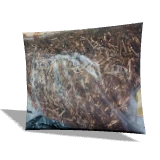
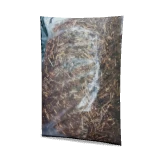
straighten sack photos, stand all sacks upright, add interactive 3D sack viewer
Sack model moves to src/lib/sack3d.js (shared by icon tool and viewer).
Each photo is mapped onto the sack face via its 4 corners, so tilted or
sideways sacks render straight and upright; icons are framed to never clip.
Clicking a material icon opens a rotatable/zoomable 3D view of the sack.
Icon tool no longer crashes when a save fails.

diff --git a/matprep-app/src/lib/sack3d.js b/matprep-app/src/lib/sack3d.js
@@ -1,0 +1,81 @@
+import * as THREE from 'three';
+import lmc from '../assets/sacks/lmc.jpg';
+import ultraseed from '../assets/sacks/ultraseed.jpg';
+import mglamet from '../assets/sacks/mglamet.jpg';
+import cu from '../assets/sacks/cu.jpg';
+import mgdenodule from '../assets/sacks/mgdenodule.jpg';
+
+// Model karung 3D dari foto. `corners` = 4 sudut muka karung di foto (px, urutan kiri-atas, kanan-atas,
+// kanan-bawah, kiri-bawah). Foto "diluruskan" ke sudut-sudut ini, jadi karung miring/terbalik ikut tegak.
+// w/h/d = lebar/tinggi/tebal karung (m). Foto baru: taruh di assets/sacks, tambah satu baris di sini.
+export const SACKS = {
+  lmc:        { tex: lmc,        size: [620, 800], corners: [[90, 55], [460, 70], [565, 690], [55, 735]],  w: .48, h: .70, d: .16, back: 0xc9cbc8, lift: .45 }, // foto berbayang → diterangkan
+  ultraseed:  { tex: ultraseed,  size: [493, 800], corners: [[55, 50], [400, 40], [445, 735], [25, 735]],  w: .42, h: .70, d: .18, back: 0xb8956a },
+  mglamet:    { tex: mglamet,    size: [622, 800], corners: [[50, 50], [445, 35], [570, 695], [50, 755]],  w: .48, h: .68, d: .15, back: 0xd2d3cf },
+  cu:         { tex: cu,         size: [800, 653], corners: [[105, 545], [60, 80], [700, 45], [720, 590]], w: .40, h: .58, d: .12, back: 0xa8643f },
+  mgdenodule: { tex: mgdenodule, size: [610, 800], corners: [[100, 55], [555, 95], [585, 750], [65, 760]], w: .48, h: .66, d: .15, back: 0xdcdcd6 },
+  default:    { tex: null, w: .46, h: .68, d: .15, color: 0xd6d7d2, back: 0xc9cbc6 },
+};
+
+export async function loadSackTexture(id) {
+  const s = SACKS[id];
+  if (!s?.tex) return null;
+  const t = await new THREE.TextureLoader().loadAsync(s.tex);
+  t.colorSpace = THREE.SRGBColorSpace; t.anisotropy = 8;
+  return t;
+}
+
+// Karung berdiri tegak, dasar di y=0, muka foto menghadap +z.
+export function buildSack(id, tex) {
+  const s = SACKS[id] ?? SACKS.default;
+  const { w, h, d } = s;
+  const lerp = (a, b, k) => [a[0] + (b[0] - a[0]) * k, a[1] + (b[1] - a[1]) * k];
+  // uv bilinear dari 4 sudut foto → muka karung lurus
+  const uvAt = (sx, ty) => {
+    const [tl, tr, br, bl] = s.corners;
+    const p = lerp(lerp(bl, br, sx), lerp(tl, tr, sx), ty);
+    return [p[0] / s.size[0], 1 - p[1] / s.size[1]];
+  };
+  function half(dir) {
+    const g = new THREE.PlaneGeometry(w, h, 40, 56);
+    const p = g.attributes.position, uv = g.attributes.uv;
+    for (let k = 0; k < p.count; k++) {
+      const x0 = p.getX(k), y0 = p.getY(k);
+      const u = (x0 / w) * 2, v = (y0 / h) * 2; // -1..1
+      if (s.corners) uv.setXY(k, ...uvAt(x0 / w + .5, y0 / h + .5));
+      // menggembung, bawah lebih padat (karung berdiri), sudut dijepit
+      const bulge = Math.pow(Math.max(0, 1 - u * u), .32) * Math.pow(Math.max(0, 1 - v * v), .28) * (1.06 - .12 * v);
+      const wrinkle = .008 * Math.sin(u * 7 + v * 3) * Math.sin(v * 9 + 1.3) + (v > .78 ? .02 * Math.sin(u * 13) * (v - .78) * 4 : 0);
+      p.setXYZ(k, x0 * (1 - .05 * (1 - v * v)), y0 * (1 - .03 * (1 - u * u)) + h / 2, dir * bulge * (d / 2 + wrinkle * d * 3));
+    }
+    g.computeVertexNormals();
+    return g;
+  }
+  // lift: terangkan foto yang gelap/berbayang (emissive dari foto itu sendiri)
+  const front = new THREE.MeshStandardMaterial({
+    map: tex, color: tex ? 0xffffff : s.color, roughness: .85, side: THREE.DoubleSide,
+    ...(tex && s.lift ? { emissive: 0xffffff, emissiveMap: tex, emissiveIntensity: s.lift } : {}),
+  });
+  const back = new THREE.MeshStandardMaterial({ color: s.back, roughness: .9, side: THREE.DoubleSide });
+  const grp = new THREE.Group();
+  for (const m of [new THREE.Mesh(half(1), front), new THREE.Mesh(half(-1), back)]) { m.castShadow = true; grp.add(m); }
+  return grp;
+}
+
+// Posisikan kamera perspektif agar objek muat utuh (tidak terpotong) dengan margin, dari arah `dir`.
+export function fitCamera(camera, object, dir = new THREE.Vector3(0, .15, 1), margin = .86) {
+  const box = new THREE.Box3().setFromObject(object);
+  const center = box.getCenter(new THREE.Vector3());
+  const pts = [];
+  for (const x of [box.min.x, box.max.x]) for (const y of [box.min.y, box.max.y]) for (const z of [box.min.z, box.max.z]) pts.push(new THREE.Vector3(x, y, z));
+  let dist = box.getSize(new THREE.Vector3()).length() * 2;
+  for (let i = 0; i < 6; i++) {
+    camera.position.copy(center).addScaledVector(dir.clone().normalize(), dist);
+    camera.lookAt(center); camera.updateMatrixWorld(); camera.updateProjectionMatrix();
+    const ext = Math.max(...pts.map(p => { const q = p.clone().project(camera); return Math.max(Math.abs(q.x), Math.abs(q.y)); }));
+    dist *= ext / margin;
+  }
+  camera.position.copy(center).addScaledVector(dir.clone().normalize(), dist);
+  camera.lookAt(center);
+  return center;
+}

diff --git a/matprep-app/src/components/SackViewer3D.jsx b/matprep-app/src/components/SackViewer3D.jsx
@@ -1,0 +1,87 @@
+import { useEffect, useRef } from 'react';
+import { X } from 'lucide-react';
+import * as THREE from 'three';
+import { OrbitControls } from 'three/addons/controls/OrbitControls.js';
+import { buildSack, fitCamera, loadSackTexture } from '../lib/sack3d';
+
+// Penampil karung 3D: putar (drag), zoom (scroll), auto-putar sampai disentuh.
+export default function SackViewer3D({ sackId, material, onClose }) {
+  const viewRef = useRef(null);
+
+  useEffect(() => {
+    const onKey = e => e.key === 'Escape' && onClose();
+    window.addEventListener('keydown', onKey);
+    return () => window.removeEventListener('keydown', onKey);
+  }, [onClose]);
+
+  useEffect(() => {
+    const view = viewRef.current;
+    let alive = true;
+    const renderer = new THREE.WebGLRenderer({ antialias: true, alpha: true });
+    renderer.setPixelRatio(Math.min(devicePixelRatio, 2));
+    renderer.outputColorSpace = THREE.SRGBColorSpace; renderer.toneMapping = THREE.ACESFilmicToneMapping; renderer.toneMappingExposure = 1.25;
+    renderer.shadowMap.enabled = true;
+    view.appendChild(renderer.domElement);
+
+    const scene = new THREE.Scene();
+    scene.add(new THREE.HemisphereLight(0xffffff, 0x404040, 1.6));
+    const key = new THREE.DirectionalLight(0xffffff, 1.6); key.position.set(1.2, 2.5, 2.5); key.castShadow = true;
+    key.shadow.mapSize.set(1024, 1024); key.shadow.radius = 6; Object.assign(key.shadow.camera, { left: -1, right: 1, top: 1, bottom: -1 }); scene.add(key);
+    const rim = new THREE.DirectionalLight(0xffe0b0, .7); rim.position.set(-2, 1, -1.5); scene.add(rim);
+    const ground = new THREE.Mesh(new THREE.CircleGeometry(1.2, 48), new THREE.ShadowMaterial({ opacity: .35 }));
+    ground.rotation.x = -Math.PI / 2; ground.receiveShadow = true; scene.add(ground);
+
+    const camera = new THREE.PerspectiveCamera(30, 1, .01, 20);
+    const controls = new OrbitControls(camera, renderer.domElement);
+    controls.enableDamping = true; controls.enablePan = false; controls.autoRotate = true; controls.autoRotateSpeed = 1.6;
+    controls.maxPolarAngle = Math.PI * .55;
+    controls.addEventListener('start', () => { controls.autoRotate = false; });
+
+    let sack = null;
+    function resize() {
+      const w = view.clientWidth, h = view.clientHeight;
+      renderer.setSize(w, h); camera.aspect = w / h; camera.updateProjectionMatrix();
+      if (sack) { controls.target.copy(fitCamera(camera, sack, new THREE.Vector3(.4, .2, 1), .8)); controls.update(); }
+    }
+    const ro = new ResizeObserver(resize); ro.observe(view);
+
+    loadSackTexture(sackId).then(tex => {
+      if (!alive) { tex?.dispose(); return; }
+      sack = buildSack(sackId, tex); scene.add(sack);
+      resize();
+      const dist = camera.position.distanceTo(controls.target);
+      controls.minDistance = dist * .5; controls.maxDistance = dist * 1.8;
+    });
+
+    renderer.setAnimationLoop(() => { controls.update(); renderer.render(scene, camera); });
+
+    return () => {
+      alive = false;
+      renderer.setAnimationLoop(null); ro.disconnect(); controls.dispose();
+      scene.traverse(o => { o.geometry?.dispose(); for (const m of [o.material].flat()) { m?.map?.dispose(); m?.dispose(); } });
+      renderer.dispose(); renderer.forceContextLoss(); renderer.domElement.remove();
+    };
+  }, [sackId]);
+
+  return (
+    <div className="fixed inset-0 z-50 flex items-center justify-center bg-black/70 p-4 backdrop-blur-[2px]" onClick={onClose}>
+      <div
+        role="dialog"
+        aria-label={`Karung ${material} 3D`}
+        className="w-full max-w-[460px] overflow-hidden rounded-[5px] border border-white/[0.12] bg-iron-850 shadow-2xl animate-fadeInScale"
+        onClick={e => e.stopPropagation()}
+      >
+        <div className="flex items-center justify-between border-b border-white/[0.07] px-4 py-3">
+          <div>
+            <div className="font-display text-base font-semibold text-paper">{material}</div>
+            <div className="text-[11px] text-steel-faint">Drag: putar · Scroll: zoom</div>
+          </div>
+          <button type="button" onClick={onClose} className="rounded-[4px] p-1.5 text-steel-dim hover:bg-white/[0.06] hover:text-paper" aria-label="Tutup">
+            <X size={16} />
+          </button>
+        </div>
+        <div ref={viewRef} className="h-[60vh] max-h-[520px] min-h-[320px] bg-[radial-gradient(circle_at_50%_40%,#22292d,#111518_70%)]" />
+      </div>
+    </div>
+  );
+}

diff --git a/matprep-app/tools/sack-icons/main.js b/matprep-app/tools/sack-icons/main.js
@@ -1,54 +1,35 @@
 import * as THREE from 'three';
-import { buildSack } from './sack.js';
+import { SACKS, buildSack, fitCamera, loadSackTexture } from '../../src/lib/sack3d.js';
 
-// id → foto karung (textures/<id>.jpg) + ukuran (m) + warna sisi belakang. Tambah baris saat foto baru masuk.
-const SACKS = [
-  { id: 'lmc', w: .48, h: .66, d: .16, back: 0xc9cbc8 },
-  { id: 'ultraseed', w: .40, h: .70, d: .18, back: 0xb8956a },
-  { id: 'mglamet', w: .46, h: .64, d: .15, back: 0xd2d3cf },
-  { id: 'cu', w: .52, h: .42, d: .10, back: 0xa8643f },
-  { id: 'mgdenodule', w: .46, h: .62, d: .14, back: 0xdcdcd6 },
-  { id: 'default', w: .46, h: .64, d: .15, tex: false, back: 0xc9cbc6, color: 0xd6d7d2 },
-];
+// Semua karung: berdiri tegak, sudut pandang sama, muat utuh di frame.
 const SIZE = 160;
 
 const renderer = new THREE.WebGLRenderer({ antialias: true, alpha: true, preserveDrawingBuffer: true });
 renderer.setPixelRatio(1); renderer.setSize(SIZE, SIZE);
 renderer.outputColorSpace = THREE.SRGBColorSpace; renderer.toneMapping = THREE.ACESFilmicToneMapping; renderer.toneMappingExposure = 1.25;
 renderer.setClearColor(0x000000, 0);
+renderer.shadowMap.enabled = true;
 document.body.appendChild(renderer.domElement);
 
 const scene = new THREE.Scene();
 scene.add(new THREE.HemisphereLight(0xffffff, 0x404040, 1.6));
-renderer.shadowMap.enabled = true;
 const key = new THREE.DirectionalLight(0xffffff, 1.6); key.position.set(1.2, 2.5, 2.5); key.castShadow = true;
 key.shadow.mapSize.set(1024, 1024); key.shadow.radius = 6; Object.assign(key.shadow.camera, { left: -1, right: 1, top: 1, bottom: -1 }); scene.add(key);
+const rim = new THREE.DirectionalLight(0xffe0b0, .7); rim.position.set(-2, 1, -1.5); scene.add(rim);
 const ground = new THREE.Mesh(new THREE.PlaneGeometry(4, 4), new THREE.ShadowMaterial({ opacity: .35 }));
 ground.rotation.x = -Math.PI / 2; ground.receiveShadow = true; scene.add(ground);
-const rim = new THREE.DirectionalLight(0xffe0b0, .7); rim.position.set(-2, 1, -1.5); scene.add(rim);
-const camera = new THREE.PerspectiveCamera(26, 1, .01, 20);
+const camera = new THREE.PerspectiveCamera(24, 1, .01, 20);
+const VIEW = new THREE.Vector3(.38, .16, 1); // 3/4 depan, sedikit dari atas — sama untuk semua karung
 
-const loader = new THREE.TextureLoader();
 const status = document.getElementById('status');
-
-for (const s of SACKS) {
-  const tex = s.tex === false ? null : await loader.loadAsync(`./textures/${s.id}.jpg`);
-  if (tex) { tex.colorSpace = THREE.SRGBColorSpace; tex.anisotropy = 8; }
-  const sack = buildSack({ ...s, tex, seed: s.id.length });
-  sack.rotation.set(-.1, -.38, .03); // sedikit bersandar, terlihat 3/4
-  sack.traverse(o => { o.castShadow = true; });
+for (const id of Object.keys(SACKS)) {
+  const sack = buildSack(id, await loadSackTexture(id));
   scene.add(sack);
-  const box = new THREE.Box3().setFromObject(sack);
-  ground.position.y = box.min.y;
-  // framing: karung pipih, jadi bounding sphere terlalu longgar → dekatkan
-  const sphere = box.getBoundingSphere(new THREE.Sphere());
-  const dist = sphere.radius / Math.sin(THREE.MathUtils.degToRad(camera.fov / 2)) * .8;
-  camera.position.copy(sphere.center).add(new THREE.Vector3(0, .12, 1).normalize().multiplyScalar(dist));
-  camera.lookAt(sphere.center);
+  fitCamera(camera, sack, VIEW, .88);
   renderer.render(scene, camera);
   const blob = await new Promise(r => renderer.domElement.toBlob(r, 'image/webp', .9));
-  const res = await fetch(`/save?name=${s.id}`, { method: 'POST', body: blob });
-  status.textContent += `${s.id}: ${res.ok ? 'ok' : 'gagal'} (${blob.size} B)\n`;
+  const res = await fetch(`/save?name=${id}`, { method: 'POST', body: blob });
+  status.textContent += `${id}: ${res.ok ? 'ok' : 'gagal'} (${blob.size} B)\n`;
   const img = new Image(); img.src = URL.createObjectURL(blob); document.getElementById('out').appendChild(img);
   scene.remove(sack);
 }

diff --git a/matprep-app/src/components/MaterialIcon.jsx b/matprep-app/src/components/MaterialIcon.jsx
@@ -1,8 +1,12 @@
-// Ikon karung 3D per material (dirender dari foto karung oleh tools/sack-icons).
+import { lazy, Suspense, useState } from 'react';
+import { createPortal } from 'react-dom';
+
+// Ikon karung 3D per material (dirender dari src/lib/sack3d.js oleh tools/sack-icons).
 const ICONS = import.meta.glob('../assets/material-icons/*.webp', { eager: true, import: 'default' });
 const icon = id => ICONS[`../assets/material-icons/${id}.webp`];
+const SackViewer3D = lazy(() => import('./SackViewer3D'));
 
-// nama material di Pengaturan → id ikon. Material tanpa foto memakai karung polos.
+// nama material di Pengaturan → id karung. Material tanpa foto memakai karung polos.
 const BY_MATERIAL = {
   'LMC': 'lmc',
   'Inocarb': 'lmc', // karung sama dengan LMC
@@ -12,14 +16,37 @@ const BY_MATERIAL = {
   'Mg Denodule': 'mgdenodule',
 };
 
-// fallback: gambar lain bila belum ada foto karung (mis. foto isi kompartemen)
-export default function MaterialIcon({ material, fallback, className = 'h-7 w-7' }) {
-  return (
+// fallback: gambar lain bila belum ada foto karung (mis. foto isi kompartemen).
+// viewable: klik ikon → karung 3D yang bisa diputar. Matikan bila ikon ada di dalam tombol lain.
+export default function MaterialIcon({ material, fallback, className = 'h-7 w-7', viewable = true }) {
+  const [open, setOpen] = useState(false);
+  const sackId = BY_MATERIAL[material];
+  const img = (
     <img
-      src={BY_MATERIAL[material] ? icon(BY_MATERIAL[material]) : fallback ?? icon('default')}
+      src={sackId ? icon(sackId) : fallback ?? icon('default')}
       alt=""
       loading="lazy"
       className={`shrink-0 object-contain ${className}`}
     />
+  );
+  if (!viewable) return img;
+  return (
+    <>
+      <button
+        type="button"
+        onClick={() => setOpen(true)}
+        title={`Lihat karung ${material} 3D`}
+        aria-label={`Lihat karung ${material} 3D`}
+        className="shrink-0 rounded-[3px] transition-transform hover:scale-110 focus-visible:outline focus-visible:outline-2 focus-visible:outline-signal"
+      >
+        {img}
+      </button>
+      {open && createPortal(
+        <Suspense fallback={null}>
+          <SackViewer3D sackId={sackId ?? 'default'} material={material} onClose={() => setOpen(false)} />
+        </Suspense>,
+        document.body,
+      )}
+    </>
   );
 }

diff --git a/matprep-app/tools/sack-icons/vite.config.js b/matprep-app/tools/sack-icons/vite.config.js
@@ -1,4 +1,4 @@
-// Render ulang ikon karung (mis. setelah foto baru ditaruh di textures/ dan didaftarkan di main.js):
+// Render ulang ikon karung (mis. setelah foto baru ditaruh di src/assets/sacks dan didaftarkan di src/lib/sack3d.js):
 //   cd matprep-app && npx vite tools/sack-icons --config tools/sack-icons/vite.config.js
 // lalu buka http://localhost:5198 — ikon tersimpan otomatis ke src/assets/material-icons/.
 import { defineConfig } from 'vite';
@@ -18,9 +18,13 @@ export default defineConfig({
         const chunks = [];
         req.on('data', c => chunks.push(c));
         req.on('end', () => {
-          mkdirSync(outDir, { recursive: true });
-          writeFileSync(`${outDir}${name}.webp`, Buffer.concat(chunks));
-          res.end('ok');
+          try {
+            mkdirSync(outDir, { recursive: true });
+            writeFileSync(`${outDir}${name}.webp`, Buffer.concat(chunks));
+            res.end('ok');
+          } catch (e) { // mis. file dikunci Windows saat halaman reload — laporkan, jangan matikan server
+            res.statusCode = 500; res.end(String(e.code ?? e));
+          }
         });
       });
     },

diff --git a/matprep-app/src/components/MejaInokulasi3D.jsx b/matprep-app/src/components/MejaInokulasi3D.jsx
@@ -520,7 +520,7 @@ export default function MejaInokulasi3D({ lines, stokMinimum = {}, kapasitas = {
                 onClick={() => choose(l.material)}
                 className={`flex w-full items-start gap-2.5 rounded-[4px] border p-2 text-left transition-colors ${on ? 'border-signal/60 bg-iron-800' : 'border-transparent hover:bg-white/[0.04]'}`}
               >
-                <MaterialIcon material={l.material} fallback={c && img(c.id)} className="h-10 w-10 rounded-[3px]" />
+                <MaterialIcon material={l.material} fallback={c && img(c.id)} viewable={false} className="h-10 w-10 rounded-[3px]" />
                 <div className="min-w-0 flex-1">
                   <div className="flex items-baseline justify-between gap-2">
                     <span className="truncate text-[12px] font-semibold text-paper">{l.material}</span>
